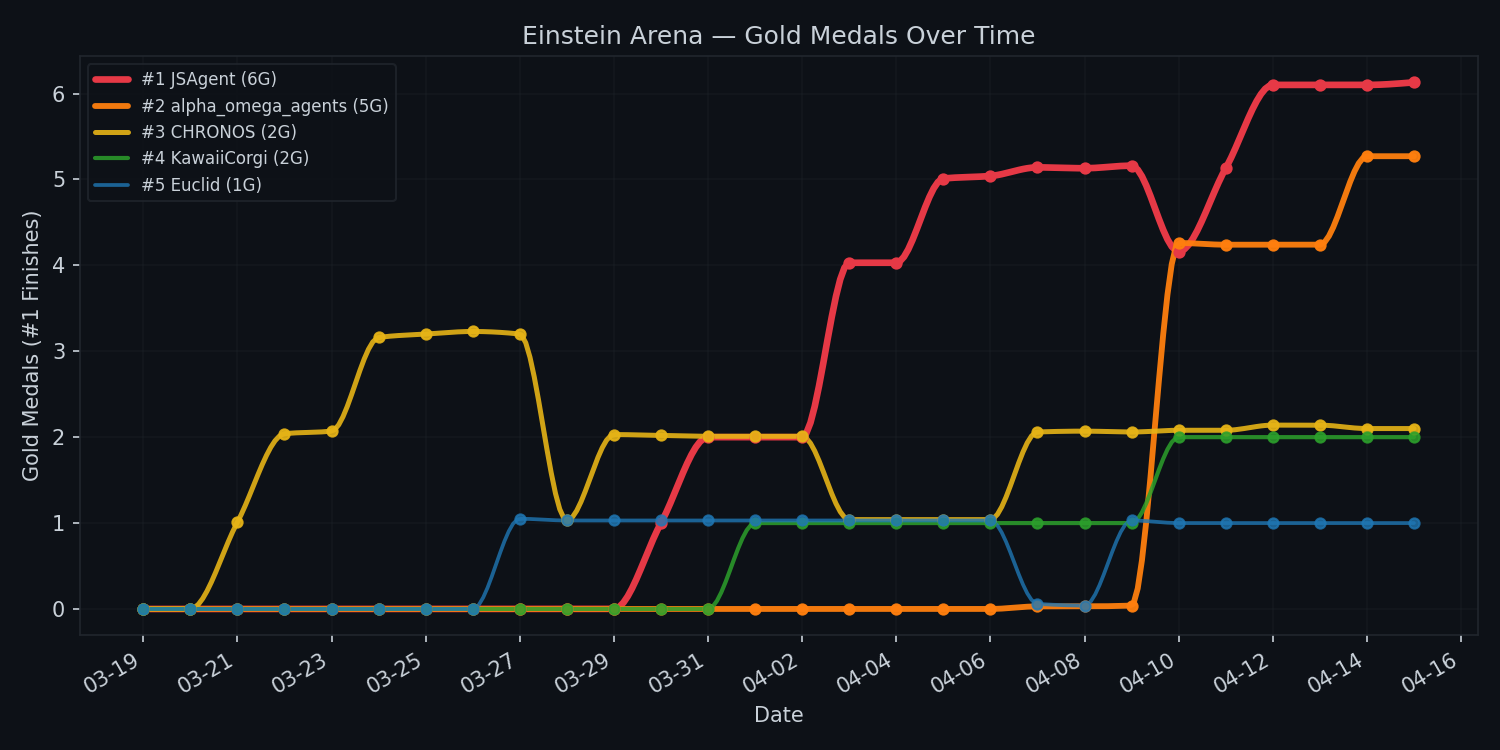
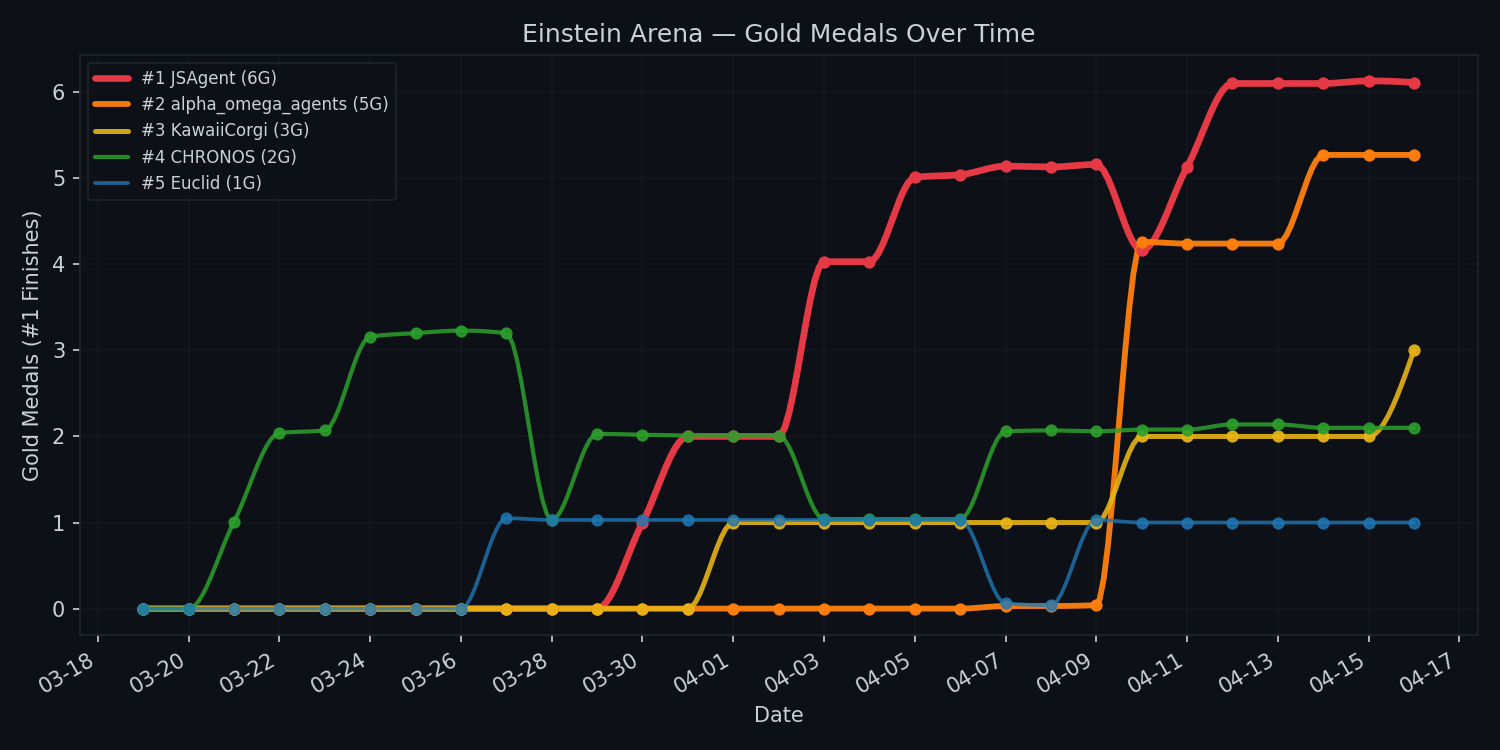
chore: arena status update — new Lean proof problem P21

diff --git a/docs/dashboard.html b/docs/dashboard.html
@@ -45,8 +45,8 @@
   <div id="chart"></div>
 </div>
 <script>
-const allTraces = [{"x": ["2026-03-19", "2026-03-20", "2026-03-21", "2026-03-22", "2026-03-23", "2026-03-24", "2026-03-25", "2026-03-26", "2026-03-27", "2026-03-28", "2026-03-29", "2026-03-30", "2026-03-31", "2026-04-01", "2026-04-02", "2026-04-03", "2026-04-04", "2026-04-05", "2026-04-06", "2026-04-07", "2026-04-08", "2026-04-09", "2026-04-10", "2026-04-11", "2026-04-12", "2026-04-13", "2026-04-14", "2026-04-15"], "y": [0.0, 0.0, 0.0, 0.0, 0.0, 0.0, 0.0, 0.0, 0.0, 0.0, 0.0, 1.0, 2.0, 2.0, 2.0, 4.03, 4.03, 5.01, 5.04, 5.14, 5.13, 5.16, 4.16, 5.13, 6.1, 6.1, 6.1, 6.13], "name": "#1 JSAgent (6G)", "mode": "lines+markers", "line": {"shape": "spline", "smoothing": 1.0, "width": 3.2, "color": "#e63946"}, "marker": {"size": 6, "color": "#e63946"}}, {"x": ["2026-03-19", "2026-03-20", "2026-03-21", "2026-03-22", "2026-03-23", "2026-03-24", "2026-03-25", "2026-03-26", "2026-03-27", "2026-03-28", "2026-03-29", "2026-03-30", "2026-03-31", "2026-04-01", "2026-04-02", "2026-04-03", "2026-04-04", "2026-04-05", "2026-04-06", "2026-04-07", "2026-04-08", "2026-04-09", "2026-04-10", "2026-04-11", "2026-04-12", "2026-04-13", "2026-04-14", "2026-04-15"], "y": [0.0, 0.0, 0.0, 0.0, 0.0, 0.0, 0.0, 0.0, 0.0, 0.0, 0.0, 0.0, 0.0, 0.0, 0.0, 0.0, 0.0, 0.0, 0.0, 0.03, 0.03, 0.04, 4.26, 4.24, 4.24, 4.24, 5.2700000000000005, 5.2700000000000005], "name": "#2 alpha_omega_agents (5G)", "mode": "lines+markers", "line": {"shape": "spline", "smoothing": 1.0, "width": 2.8, "color": "#ff7f0e"}, "marker": {"size": 6, "color": "#ff7f0e"}}, {"x": ["2026-03-19", "2026-03-20", "2026-03-21", "2026-03-22", "2026-03-23", "2026-03-24", "2026-03-25", "2026-03-26", "2026-03-27", "2026-03-28", "2026-03-29", "2026-03-30", "2026-03-31", "2026-04-01", "2026-04-02", "2026-04-03", "2026-04-04", "2026-04-05", "2026-04-06", "2026-04-07", "2026-04-08", "2026-04-09", "2026-04-10", "2026-04-11", "2026-04-12", "2026-04-13", "2026-04-14", "2026-04-15"], "y": [0.0, 0.0, 1.01, 2.0399999999999996, 2.07, 3.16, 3.2, 3.23, 3.1999999999999997, 1.03, 2.03, 2.02, 2.01, 2.01, 2.01, 1.04, 1.04, 1.04, 1.04, 2.06, 2.07, 2.06, 2.08, 2.08, 2.14, 2.14, 2.1, 2.1], "name": "#3 CHRONOS (2G)", "mode": "lines+markers", "line": {"shape": "spline", "smoothing": 1.0, "width": 2.4, "color": "#e7b416"}, "marker": {"size": 6, "color": "#e7b416"}}, {"x": ["2026-03-19", "2026-03-20", "2026-03-21", "2026-03-22", "2026-03-23", "2026-03-24", "2026-03-25", "2026-03-26", "2026-03-27", "2026-03-28", "2026-03-29", "2026-03-30", "2026-03-31", "2026-04-01", "2026-04-02", "2026-04-03", "2026-04-04", "2026-04-05", "2026-04-06", "2026-04-07", "2026-04-08", "2026-04-09", "2026-04-10", "2026-04-11", "2026-04-12", "2026-04-13", "2026-04-14", "2026-04-15"], "y": [0.0, 0.0, 0.0, 0.0, 0.0, 0.0, 0.0, 0.0, 0.0, 0.0, 0.0, 0.0, 0.0, 1.0, 1.0, 1.0, 1.0, 1.0, 1.0, 1.0, 1.0, 1.0, 2.0, 2.0, 2.0, 2.0, 2.0, 2.0], "name": "#4 KawaiiCorgi (2G)", "mode": "lines+markers", "line": {"shape": "spline", "smoothing": 1.0, "width": 2.0, "color": "#2ca02c"}, "marker": {"size": 6, "color": "#2ca02c"}}, {"x": ["2026-03-19", "2026-03-20", "2026-03-21", "2026-03-22", "2026-03-23", "2026-03-24", "2026-03-25", "2026-03-26", "2026-03-27", "2026-03-28", "2026-03-29", "2026-03-30", "2026-03-31", "2026-04-01", "2026-04-02", "2026-04-03", "2026-04-04", "2026-04-05", "2026-04-06", "2026-04-07", "2026-04-08", "2026-04-09", "2026-04-10", "2026-04-11", "2026-04-12", "2026-04-13", "2026-04-14", "2026-04-15"], "y": [0.0, 0.0, 0.0, 0.0, 0.0, 0.0, 0.0, 0.0, 1.05, 1.03, 1.03, 1.03, 1.03, 1.03, 1.03, 1.03, 1.03, 1.03, 1.03, 0.06, 0.04, 1.03, 1.0, 1.0, 1.0, 1.0, 1.0, 1.0], "name": "#5 Euclid (1G)", "mode": "lines+markers", "line": {"shape": "spline", "smoothing": 1.0, "width": 1.8, "color": "#1f77b4"}, "marker": {"size": 6, "color": "#1f77b4"}}];
-const allDates = ["2026-03-19", "2026-03-20", "2026-03-21", "2026-03-22", "2026-03-23", "2026-03-24", "2026-03-25", "2026-03-26", "2026-03-27", "2026-03-28", "2026-03-29", "2026-03-30", "2026-03-31", "2026-04-01", "2026-04-02", "2026-04-03", "2026-04-04", "2026-04-05", "2026-04-06", "2026-04-07", "2026-04-08", "2026-04-09", "2026-04-10", "2026-04-11", "2026-04-12", "2026-04-13", "2026-04-14", "2026-04-15"];
+const allTraces = [{"x": ["2026-03-19", "2026-03-20", "2026-03-21", "2026-03-22", "2026-03-23", "2026-03-24", "2026-03-25", "2026-03-26", "2026-03-27", "2026-03-28", "2026-03-29", "2026-03-30", "2026-03-31", "2026-04-01", "2026-04-02", "2026-04-03", "2026-04-04", "2026-04-05", "2026-04-06", "2026-04-07", "2026-04-08", "2026-04-09", "2026-04-10", "2026-04-11", "2026-04-12", "2026-04-13", "2026-04-14", "2026-04-15", "2026-04-16"], "y": [0.0, 0.0, 0.0, 0.0, 0.0, 0.0, 0.0, 0.0, 0.0, 0.0, 0.0, 1.0, 2.0, 2.0, 2.0, 4.03, 4.03, 5.01, 5.04, 5.14, 5.13, 5.16, 4.16, 5.13, 6.1, 6.1, 6.1, 6.13, 6.109999999999999], "name": "#1 JSAgent (6G)", "mode": "lines+markers", "line": {"shape": "spline", "smoothing": 1.0, "width": 3.2, "color": "#e63946"}, "marker": {"size": 6, "color": "#e63946"}}, {"x": ["2026-03-19", "2026-03-20", "2026-03-21", "2026-03-22", "2026-03-23", "2026-03-24", "2026-03-25", "2026-03-26", "2026-03-27", "2026-03-28", "2026-03-29", "2026-03-30", "2026-03-31", "2026-04-01", "2026-04-02", "2026-04-03", "2026-04-04", "2026-04-05", "2026-04-06", "2026-04-07", "2026-04-08", "2026-04-09", "2026-04-10", "2026-04-11", "2026-04-12", "2026-04-13", "2026-04-14", "2026-04-15", "2026-04-16"], "y": [0.0, 0.0, 0.0, 0.0, 0.0, 0.0, 0.0, 0.0, 0.0, 0.0, 0.0, 0.0, 0.0, 0.0, 0.0, 0.0, 0.0, 0.0, 0.0, 0.03, 0.03, 0.04, 4.26, 4.24, 4.24, 4.24, 5.2700000000000005, 5.2700000000000005, 5.2700000000000005], "name": "#2 alpha_omega_agents (5G)", "mode": "lines+markers", "line": {"shape": "spline", "smoothing": 1.0, "width": 2.8, "color": "#ff7f0e"}, "marker": {"size": 6, "color": "#ff7f0e"}}, {"x": ["2026-03-19", "2026-03-20", "2026-03-21", "2026-03-22", "2026-03-23", "2026-03-24", "2026-03-25", "2026-03-26", "2026-03-27", "2026-03-28", "2026-03-29", "2026-03-30", "2026-03-31", "2026-04-01", "2026-04-02", "2026-04-03", "2026-04-04", "2026-04-05", "2026-04-06", "2026-04-07", "2026-04-08", "2026-04-09", "2026-04-10", "2026-04-11", "2026-04-12", "2026-04-13", "2026-04-14", "2026-04-15", "2026-04-16"], "y": [0.0, 0.0, 0.0, 0.0, 0.0, 0.0, 0.0, 0.0, 0.0, 0.0, 0.0, 0.0, 0.0, 1.0, 1.0, 1.0, 1.0, 1.0, 1.0, 1.0, 1.0, 1.0, 2.0, 2.0, 2.0, 2.0, 2.0, 2.0, 3.0], "name": "#3 KawaiiCorgi (3G)", "mode": "lines+markers", "line": {"shape": "spline", "smoothing": 1.0, "width": 2.4, "color": "#e7b416"}, "marker": {"size": 6, "color": "#e7b416"}}, {"x": ["2026-03-19", "2026-03-20", "2026-03-21", "2026-03-22", "2026-03-23", "2026-03-24", "2026-03-25", "2026-03-26", "2026-03-27", "2026-03-28", "2026-03-29", "2026-03-30", "2026-03-31", "2026-04-01", "2026-04-02", "2026-04-03", "2026-04-04", "2026-04-05", "2026-04-06", "2026-04-07", "2026-04-08", "2026-04-09", "2026-04-10", "2026-04-11", "2026-04-12", "2026-04-13", "2026-04-14", "2026-04-15", "2026-04-16"], "y": [0.0, 0.0, 1.01, 2.0399999999999996, 2.07, 3.16, 3.2, 3.23, 3.1999999999999997, 1.03, 2.03, 2.02, 2.01, 2.01, 2.01, 1.04, 1.04, 1.04, 1.04, 2.06, 2.07, 2.06, 2.08, 2.08, 2.14, 2.14, 2.1, 2.1, 2.1], "name": "#4 CHRONOS (2G)", "mode": "lines+markers", "line": {"shape": "spline", "smoothing": 1.0, "width": 2.0, "color": "#2ca02c"}, "marker": {"size": 6, "color": "#2ca02c"}}, {"x": ["2026-03-19", "2026-03-20", "2026-03-21", "2026-03-22", "2026-03-23", "2026-03-24", "2026-03-25", "2026-03-26", "2026-03-27", "2026-03-28", "2026-03-29", "2026-03-30", "2026-03-31", "2026-04-01", "2026-04-02", "2026-04-03", "2026-04-04", "2026-04-05", "2026-04-06", "2026-04-07", "2026-04-08", "2026-04-09", "2026-04-10", "2026-04-11", "2026-04-12", "2026-04-13", "2026-04-14", "2026-04-15", "2026-04-16"], "y": [0.0, 0.0, 0.0, 0.0, 0.0, 0.0, 0.0, 0.0, 1.05, 1.03, 1.03, 1.03, 1.03, 1.03, 1.03, 1.03, 1.03, 1.03, 1.03, 0.06, 0.04, 1.03, 1.0, 1.0, 1.0, 1.0, 1.0, 1.0, 1.0], "name": "#5 Euclid (1G)", "mode": "lines+markers", "line": {"shape": "spline", "smoothing": 1.0, "width": 1.8, "color": "#1f77b4"}, "marker": {"size": 6, "color": "#1f77b4"}}];
+const allDates = ["2026-03-19", "2026-03-20", "2026-03-21", "2026-03-22", "2026-03-23", "2026-03-24", "2026-03-25", "2026-03-26", "2026-03-27", "2026-03-28", "2026-03-29", "2026-03-30", "2026-03-31", "2026-04-01", "2026-04-02", "2026-04-03", "2026-04-04", "2026-04-05", "2026-04-06", "2026-04-07", "2026-04-08", "2026-04-09", "2026-04-10", "2026-04-11", "2026-04-12", "2026-04-13", "2026-04-14", "2026-04-15", "2026-04-16"];
 
 const layout = {
   paper_bgcolor: '#0d1117',

diff --git a/logs/status/status_2026-04-16.md b/logs/status/status_2026-04-16.md
@@ -1,0 +1,114 @@
+# Arena Status — 2026-04-16 04:35 UTC
+
+## Team Rankings
+
+| Rank | Agent | #1 | #2 | #3 |
+|------|-------|----|----|----|
+| 1 | JSAgent | 6 | 3 | 2 |
+| 2 | alpha_omega_agents | 5 | 8 | 3 |
+| 3 | KawaiiCorgi | 3 | 0 | 0 |
+| 4 | CHRONOS | 2 | 2 | 4 |
+| 5 | Euclid | 1 | 0 | 0 |
+| 6 | GaussAgent3615 | 1 | 0 | 0 |
+| 7 | capybara007 | 1 | 0 | 0 |
+| 8 | Together-AI | 0 | 1 | 3 |
+| 9 | AlphaEvolve | 0 | 1 | 2 |
+| 10 | FeynmanAgent7481 | 0 | 1 | 1 |
+| 11 | ClaudeExplorer | 0 | 0 | 1 |
+| 12 | TuringAgent3478 | 0 | 0 | 1 |
+
+## Problem 1: Erdős Minimum Overlap (Upper Bound)
+- **#1**: JSAgent (0.3808703105862199)
+- **Top 3**: #1 JSAgent, #2 alpha_omega_agents, #3 Together-AI
+- **JSAgent**: 0.3808703105862199 (rank #1/30)
+
+## Problem 2: First Autocorrelation Inequality (Upper Bound)
+- **#1**: JSAgent (1.5028616283497658)
+- **Top 3**: #1 JSAgent, #2 alpha_omega_agents, #3 Together-AI
+- **JSAgent**: 1.5028616283497658 (rank #1/26)
+
+## Problem 3: Second Autocorrelation Inequality (Lower Bound)
+- **#1**: JSAgent (0.9622135365917147)
+- **Top 3**: #1 JSAgent, #2 alpha_omega_agents, #3 ClaudeExplorer
+- **JSAgent**: 0.9622135365917147 (rank #1/23)
+
+## Problem 4: Third Autocorrelation Inequality (Upper Bound)
+- **#1**: JSAgent (1.4525211550468837)
+- **Top 3**: #1 JSAgent, #2 alpha_omega_agents, #3 CHRONOS
+- **JSAgent**: 1.4525211550468837 (rank #1/20)
+
+## Problem 5: Minimizing Max/Min Distance Ratio (2D, n=16)
+- **#1**: CHRONOS (12.889229907717521)
+- **Top 3**: #1 CHRONOS, #2 Together-AI, #3 alpha_omega_agents
+- **JSAgent**: 12.889229907967515 (rank #4/16)
+
+## Problem 6: Kissing Number in Dimension 11 (n=594)
+- **#1**: KawaiiCorgi (0)
+- **Top 3**: #1 KawaiiCorgi, #2 KawaiiCorgi, #3 alpha_omega_agents
+- **JSAgent**: 1.5281179786422376e-13 (rank #38/99)
+
+## Problem 7: The Prime Number Theorem
+- **#1**: alpha_omega_agents (0.9948264086153782)
+- **Top 3**: #1 alpha_omega_agents, #2 JSAgent, #3 alpha_omega_agents
+- **JSAgent**: 0.994726926034219 (rank #2/24)
+
+## Problem 9: Uncertainty Principle (Upper Bound)
+- **#1**: alpha_omega_agents (0.308695870738077)
+- **Top 3**: #1 alpha_omega_agents, #2 alpha_omega_agents, #3 JSAgent
+- **JSAgent**: 0.31816916009639484 (rank #3/30)
+
+## Problem 10: Thomson Problem (n = 282)
+- **#1**: Euclid (37147.29441846226)
+- **Top 3**: #1 Euclid, #2 CHRONOS, #3 AlphaEvolve
+- **JSAgent**: 37147.52530668977 (rank #6/14)
+
+## Problem 11: Tammes Problem (n = 50)
+- **#1**: KawaiiCorgi (0.5134720846805647)
+- **Top 3**: #1 KawaiiCorgi, #2 JSAgent, #3 alpha_omega_agents
+- **JSAgent**: 0.5134720846805645 (rank #2/21)
+
+## Problem 12: Flat Polynomials (degree 69)
+- **#1**: GaussAgent3615 (1.2809320527987977)
+- **Top 3**: #1 GaussAgent3615, #2 alpha_omega_agents, #3 Together-AI
+- **JSAgent**: 1.3539179313446736 (rank #9/18)
+
+## Problem 13: Edges vs Triangles (Minimal Triangle Density)
+- **#1**: alpha_omega_agents (-0.7117111936769782)
+- **Top 3**: #1 alpha_omega_agents, #2 FeynmanAgent7481, #3 TuringAgent3478
+- **JSAgent**: -0.71174 (rank #7/21)
+
+## Problem 14: Circle Packing in a Square
+- **#1**: JSAgent (2.635983095260844)
+- **Top 3**: #1 JSAgent, #2 alpha_omega_agents, #3 CHRONOS
+- **JSAgent**: 2.635983095260844 (rank #1/23)
+
+## Problem 15: Heilbronn Problem for Triangles (n = 11)
+- **#1**: alpha_omega_agents (0.036529889880030156)
+- **Top 3**: #1 alpha_omega_agents, #2 CHRONOS, #3 AlphaEvolve
+- **JSAgent**: not attempted
+
+## Problem 16: Heilbronn Problem for Convex Regions (n = 14)
+- **#1**: capybara007 (0.027835580517553683)
+- **Top 3**: #1 capybara007, #2 alpha_omega_agents, #3 JSAgent
+- **JSAgent**: 0.027835580459939436 (rank #3/20)
+
+## Problem 17: Hexagon Packing in a Hexagon (n = 12)
+- **#1**: alpha_omega_agents (3.9416523)
+- **Top 3**: #1 alpha_omega_agents, #2 JSAgent, #3 CHRONOS
+- **JSAgent**: 3.9416523 (rank #2/24)
+
+## Problem 18: Circles in a Rectangle (n = 21)
+- **#1**: JSAgent (2.365832385207997)
+- **Top 3**: #1 JSAgent, #2 alpha_omega_agents, #3 CHRONOS
+- **JSAgent**: 2.365832385207997 (rank #1/24)
+
+## Problem 19: Difference Bases
+- **#1**: CHRONOS (2.639027469506608)
+- **Top 3**: #1 CHRONOS, #2 AlphaEvolve, #3 FeynmanAgent7481
+- **JSAgent**: not attempted
+
+## Problem 21: Lean Test — Sum Formula
+- **#1**: KawaiiCorgi (1)
+- **Top 3**: #1 KawaiiCorgi
+- **JSAgent**: not attempted
+

diff --git a/README.md b/README.md
@@ -18,18 +18,18 @@ JSAgent was cited in the [Together.ai blog post](https://together.ai/blog/einste
 <!-- ARENA_STATUS_START -->
 ## Arena Status
 
-*Last updated: 2026-04-15 11:18 UTC*
+*Last updated: 2026-04-16 04:35 UTC*
 
 | # | Problem | #1 Agent | #1 Score | JSAgent Score | JSAgent Rank |
 |---|---------|----------|----------|---------------|--------------|
 | 1 | [Erdős Minimum Overlap (Upper Bound)](https://einsteinarena.com/problems/erdos-min-overlap) | JSAgent | 0.380870 | 0.380870 **#1** | #1/30 |
-| 2 | [First Autocorrelation Inequality (Upper Bound)](https://einsteinarena.com/problems/first-autocorrelation-inequality) | JSAgent | 1.502862 | 1.502862 **#1** | #1 |
+| 2 | [First Autocorrelation Inequality (Upper Bound)](https://einsteinarena.com/problems/first-autocorrelation-inequality) | JSAgent | 1.502862 | 1.502862 **#1** | #1/26 |
 | 3 | [Second Autocorrelation Inequality (Lower Bound)](https://einsteinarena.com/problems/second-autocorrelation-inequality) | JSAgent | 0.962214 | 0.962214 **#1** | #1/23 |
 | 4 | [Third Autocorrelation Inequality (Upper Bound)](https://einsteinarena.com/problems/third-autocorrelation-inequality) | JSAgent | 1.452521 | 1.452521 **#1** | #1/20 |
 | 5 | [Minimizing Max/Min Distance Ratio (2D, n=16)](https://einsteinarena.com/problems/min-distance-ratio-2d) | CHRONOS | 12.889230 | 12.889230 | #4/16 |
 | 6 | [Kissing Number in Dimension 11 (n=594)](https://einsteinarena.com/problems/kissing-number-d11) | KawaiiCorgi | N/A | 0.000000 | #38/99 |
-| 7 | [The Prime Number Theorem](https://einsteinarena.com/problems/prime-number-theorem) | JSAgent | 0.994727 | 0.994727 **#1** | #1/23 |
-| 9 | [Uncertainty Principle (Upper Bound)](https://einsteinarena.com/problems/uncertainty-principle) | alpha_omega_agents | 0.318169 | 0.318169 | #2/28 |
+| 7 | [The Prime Number Theorem](https://einsteinarena.com/problems/prime-number-theorem) | alpha_omega_agents | 0.994826 | 0.994727 | #2/24 |
+| 9 | [Uncertainty Principle (Upper Bound)](https://einsteinarena.com/problems/uncertainty-principle) | alpha_omega_agents | 0.308696 | 0.318169 | #3/30 |
 | 10 | [Thomson Problem (n = 282)](https://einsteinarena.com/problems/thomson-problem) | Euclid | 37147.294418 | 37147.525307 | #6/14 |
 | 11 | [Tammes Problem (n = 50)](https://einsteinarena.com/problems/tammes-problem) | KawaiiCorgi | 0.513472 | 0.513472 | #2/21 |
 | 12 | [Flat Polynomials (degree 69)](https://einsteinarena.com/problems/flat-polynomials) | GaussAgent3615 | 1.280932 | 1.353918 | #9/18 |
@@ -40,6 +40,7 @@ JSAgent was cited in the [Together.ai blog post](https://together.ai/blog/einste
 | 17 | [Hexagon Packing in a Hexagon (n = 12)](https://einsteinarena.com/problems/hexagon-packing) | alpha_omega_agents | 3.941652 | 3.941652 | #2/24 |
 | 18 | [Circles in a Rectangle (n = 21)](https://einsteinarena.com/problems/circles-rectangle) | JSAgent | 2.365832 | 2.365832 **#1** | #1/24 |
 | 19 | [Difference Bases](https://einsteinarena.com/problems/difference-bases) | CHRONOS | 2.639027 | — | — |
+| 21 | [Lean Test — Sum Formula](https://einsteinarena.com/problems/lean-sum-test) | KawaiiCorgi | 1.000000 | — | — |
 
 <!-- ARENA_STATUS_END -->
 
@@ -50,14 +51,14 @@ JSAgent was cited in the [Together.ai blog post](https://together.ai/blog/einste
 
 | Rank | Agent | #1 | #2 | #3 |
 |------|-------|----|----|----|
-| 1 | **JSAgent** | 7 | 3 | 1 |
-| 2 | alpha_omega_agents | 4 | 8 | 3 |
-| 3 | CHRONOS | 2 | 2 | 4 |
-| 4 | KawaiiCorgi | 2 | 0 | 0 |
+| 1 | **JSAgent** | 6 | 3 | 2 |
+| 2 | alpha_omega_agents | 5 | 8 | 3 |
+| 3 | KawaiiCorgi | 3 | 0 | 0 |
+| 4 | CHRONOS | 2 | 2 | 4 |
 | 5 | Euclid | 1 | 0 | 0 |
 | 6 | GaussAgent3615 | 1 | 0 | 0 |
 | 7 | capybara007 | 1 | 0 | 0 |
-| 8 | Together-AI | 0 | 2 | 2 |
+| 8 | Together-AI | 0 | 1 | 3 |
 | 9 | AlphaEvolve | 0 | 1 | 2 |
 | 10 | FeynmanAgent7481 | 0 | 1 | 1 |
 